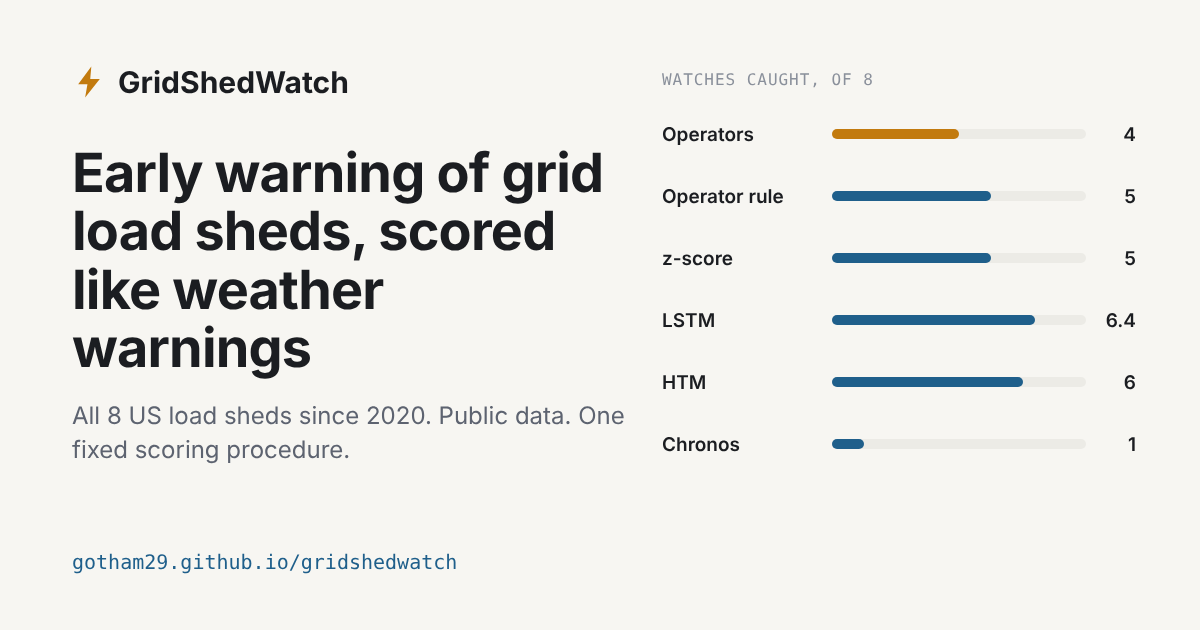
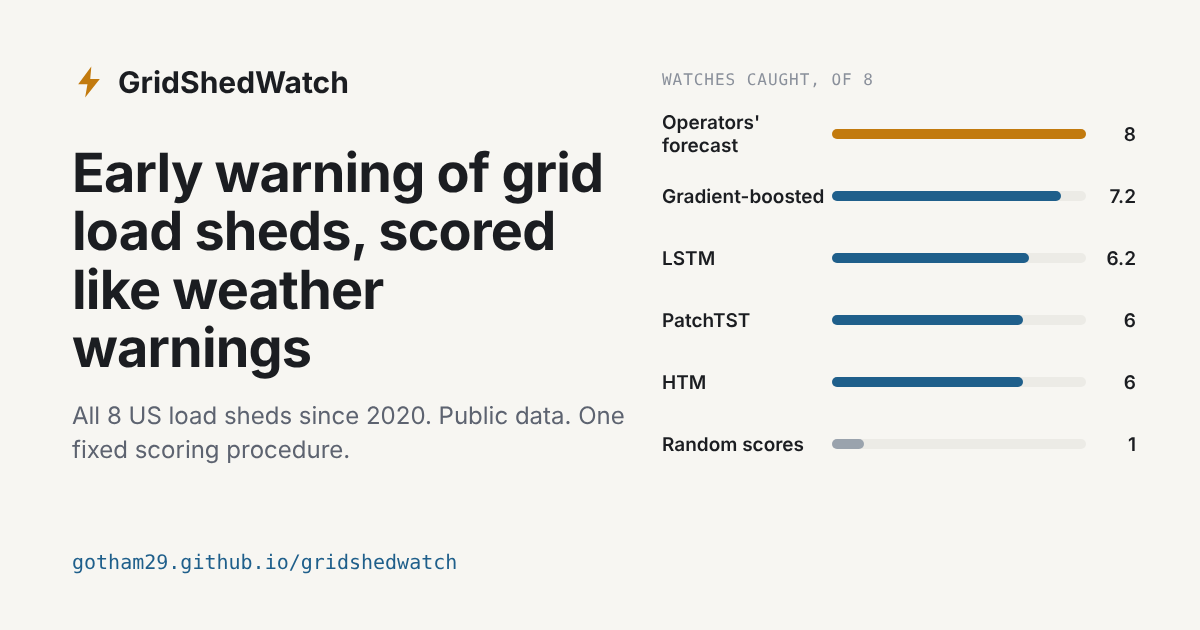
Link preview with final results; '11 am' in talk notes to match the paper
Claude-Session: https://claude.ai/code/session_01AcKEVrHkbBkPzvQZDtsT67

diff --git a/scripts/og/card.html b/scripts/og/card.html
@@ -18,5 +18,5 @@ p{font-size:24px;color:#5d6370;margin:0;line-height:1.4}
 <p>All 8 US load sheds since 2020. Public data. One fixed scoring procedure.</p>
 <div class="u">gotham29.github.io/gridshedwatch</div></div>
 <div class="r"><div class="cap">Watches caught, of 8</div>
-<div class="row"><div class="n">Operators</div><div class="tr"><div class="bar" style="width:50.0%;background:#c27a0e"></div></div><div class="v">4</div></div><div class="row"><div class="n">Operator rule</div><div class="tr"><div class="bar" style="width:62.5%;"></div></div><div class="v">5</div></div><div class="row"><div class="n">z-score</div><div class="tr"><div class="bar" style="width:62.5%;"></div></div><div class="v">5</div></div><div class="row"><div class="n">LSTM</div><div class="tr"><div class="bar" style="width:80.0%;"></div></div><div class="v">6.4</div></div><div class="row"><div class="n">HTM</div><div class="tr"><div class="bar" style="width:75.0%;"></div></div><div class="v">6</div></div><div class="row"><div class="n">Chronos</div><div class="tr"><div class="bar" style="width:12.5%;"></div></div><div class="v">1</div></div>
+<div class="row"><div class="n">Operators' forecast</div><div class="tr"><div class="bar" style="width:100.0%;background:#c27a0e"></div></div><div class="v">8</div></div><div class="row"><div class="n">Gradient-boosted</div><div class="tr"><div class="bar" style="width:90.0%;"></div></div><div class="v">7.2</div></div><div class="row"><div class="n">LSTM</div><div class="tr"><div class="bar" style="width:77.5%;"></div></div><div class="v">6.2</div></div><div class="row"><div class="n">PatchTST</div><div class="tr"><div class="bar" style="width:75.0%;"></div></div><div class="v">6</div></div><div class="row"><div class="n">HTM</div><div class="tr"><div class="bar" style="width:75.0%;"></div></div><div class="v">6</div></div><div class="row"><div class="n">Random scores</div><div class="tr"><div class="bar" style="width:12.5%;background:#9aa3ad"></div></div><div class="v">1</div></div>
 </div></body></html>

diff --git a/deck/slides/r4.html b/deck/slides/r4.html
@@ -9,5 +9,5 @@
 </div>
 </div>
 <p style="position:absolute;left:128px;bottom:64px;width:1664px;font-size:24px;color:#6B7280">Bold: the four methods that beat chance. Paler dots: caught by fewer seeds. Descriptive, not a significance test</p>
-<aside>Medians of watch lead: HTM 62 h, LightGBM 43 h, PatchTST 12 h, LSTM 11 h, CUSUM 65 h, z-score 107 h, operator rule 140 h. The operator rule warns earliest but doesn’t beat chance: early alone isn’t enough. Why the delay check exists: the benchmark replays every hour as if available the moment it happened. In reality EIA publishes demand about an hour after each hour but net generation only by 11 a.m. Eastern the next day, and the shared rule needs net generation, so a day’s delay is the realistic case. Before Uri, operators’ first public notices came 3–24 h before onset; the four’s first watches came 11–157 h ahead. Before Elliott, no notice preceded onset. A day late: LightGBM 7.2 to 4.0 watches, LSTM 6.2 to 2.0, PatchTST 6.0 to 2.4, HTM 6.0 to 4.4, CUSUM and operator rule 5.0 to 4.0. Warnings before onset a day late: LightGBM 6.0 to 1.0, HTM 5.0 to 2.6.</aside>
+<aside>Medians of watch lead: HTM 62 h, LightGBM 43 h, PatchTST 12 h, LSTM 11 h, CUSUM 65 h, z-score 107 h, operator rule 140 h. The operator rule warns earliest but doesn’t beat chance: early alone isn’t enough. Why the delay check exists: the benchmark replays every hour as if available the moment it happened. In reality EIA publishes demand about an hour after each hour but net generation only by 11 am Eastern the next day, and the shared rule needs net generation, so a day’s delay is the realistic case. Before Uri, operators’ first public notices came 3–24 h before onset; the four’s first watches came 11–157 h ahead. Before Elliott, no notice preceded onset. A day late: LightGBM 7.2 to 4.0 watches, LSTM 6.2 to 2.0, PatchTST 6.0 to 2.4, HTM 6.0 to 4.4, CUSUM and operator rule 5.0 to 4.0. Warnings before onset a day late: LightGBM 6.0 to 1.0, HTM 5.0 to 2.6.</aside>
 </section>
